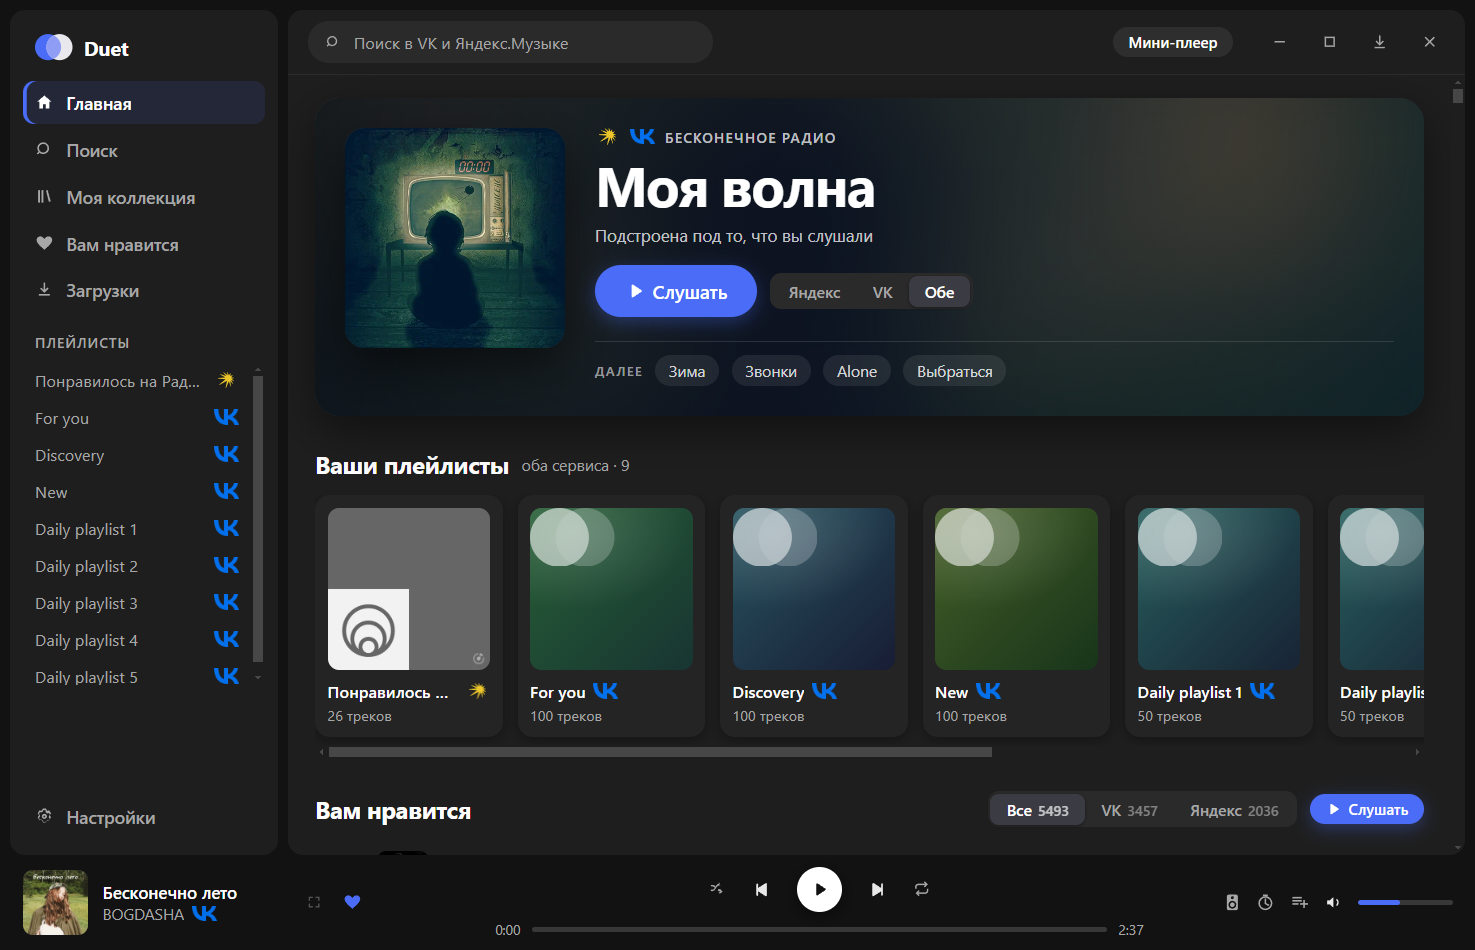
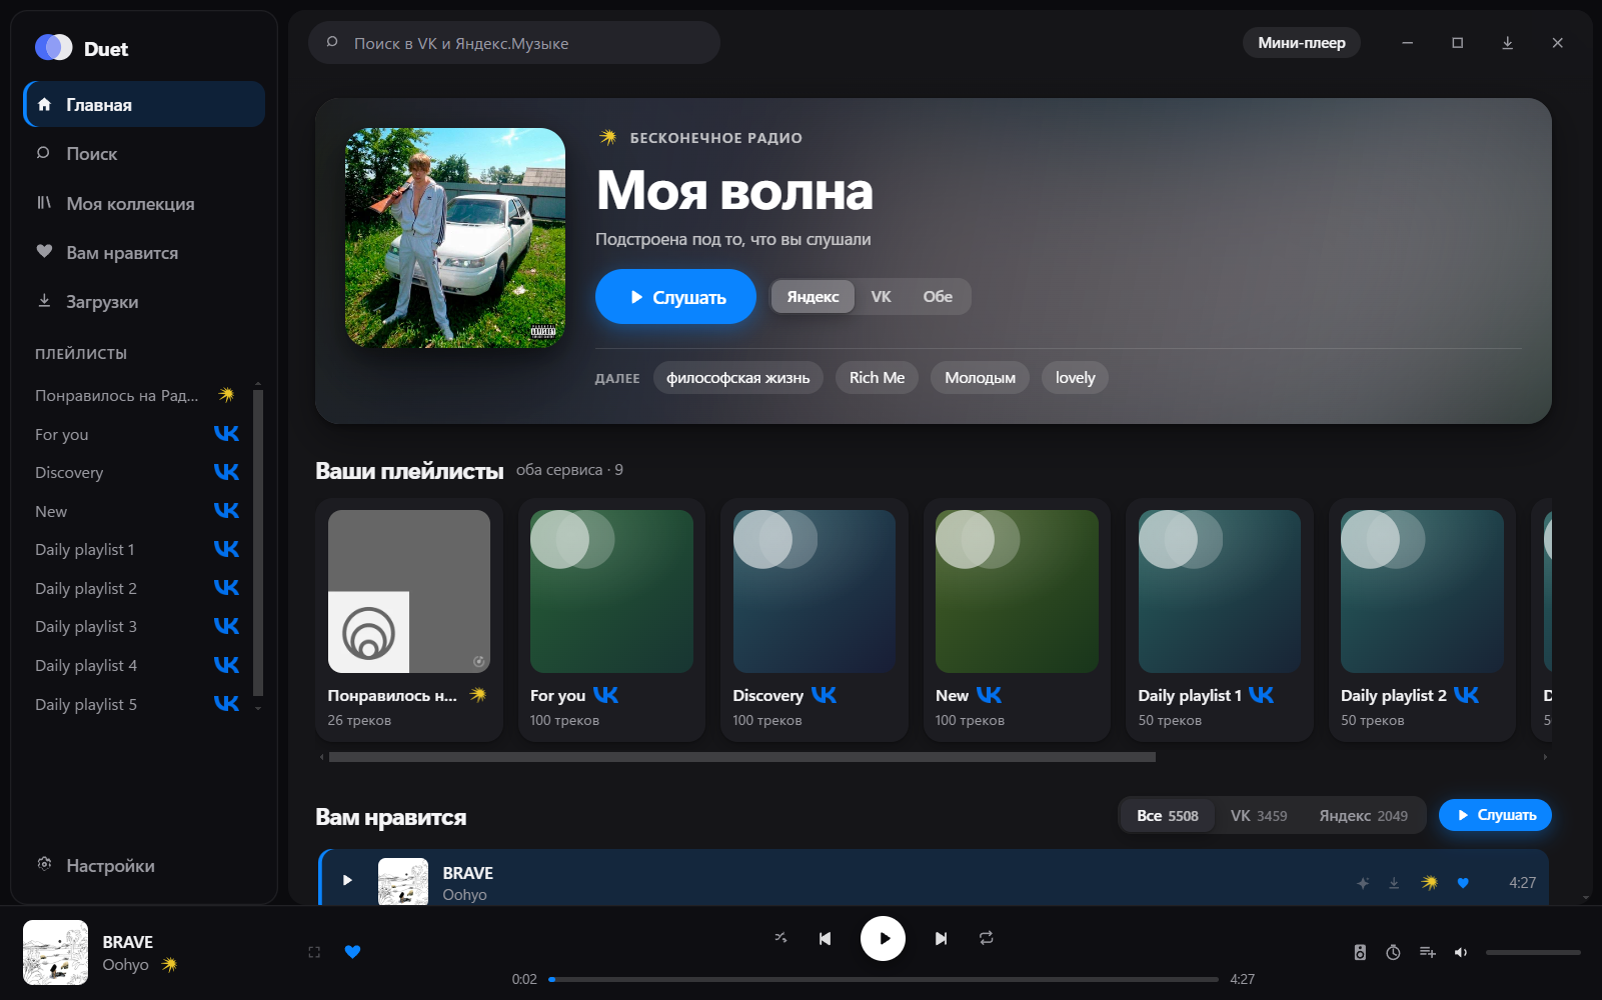
README с новым видом и всеми четырьмя мини-плеерами

diff --git a/README.md b/README.md
@@ -2,7 +2,7 @@
 
 Десктоп-плеер для Windows, который держит **VK Музыку** и **Яндекс.Музыку** в
 одном окне: общий поиск, общая очередь, общая библиотека — и мини-плеер поверх
-всех окон, когда приложение свёрнуто в трей.
+всех окон, когда смотришь в другое приложение.
 
 ![Главный экран](docs/screens/home.png)
 
@@ -16,8 +16,10 @@
   очередь одна на оба сервиса и не сбрасывается при переключении вкладок.
 - **Скачивание** с обоих сервисов, в том числе автоматическое, с лимитом места
   и выбором папки. Скачанное играет без сети.
-- **Мини-плеер поверх окон** — четыре вида из вайрфрейма, с настройкой позиции,
-  прозрачности и раскрытия по наведению.
+- **Мини-плеер поверх окон** — четыре вида, с настройкой позиции, прозрачности,
+  раскрытия по наведению и того, что делает двойной щелчок.
+- **Светлая и тёмная тема** и **настраиваемые анимации** — либо вслед за
+  системой, либо как решите сами.
 - **Похожие треки** по звёздочке у любого трека и **тексты песен** рядом с
   очередью.
 - **Свои плейлисты** — единственное место, где треки VK и Яндекса лежат в одном
@@ -27,11 +29,70 @@
 - Таймер сна (с усыплением компьютера), выбор устройства вывода, глобальные
   горячие клавиши, автозапуск, статус в Discord.
 
+## Мини-плеер
+
+Появляется, когда окно свёрнуто или просто перестало быть активным — это
+настраивается, как и всё остальное. Плита раскрывается по наведению, её можно
+таскать мышью или закрепить на месте, а двойной щелчок по ней либо раскрывает
+её, либо сразу открывает плеер во весь экран.
+
+<table>
+  <tr>
+    <td width="50%" valign="top">
+      <img src="docs/screens/mini-bar.png" alt="Мини-плеер: полоса" width="100%"><br>
+      <b>Полоса</b> — обложка, название, транспорт. Незаметная и широкая.
+    </td>
+    <td width="50%" valign="top">
+      <img src="docs/screens/mini-pill.png" alt="Мини-плеер: пилюля" width="100%"><br>
+      <b>Пилюля</b> — самая маленькая: обложка и три кнопки.
+    </td>
+  </tr>
+  <tr>
+    <td valign="top">
+      <img src="docs/screens/mini-card.png" alt="Мини-плеер: карточка" width="72%"><br>
+      <b>Карточка</b> — крупная обложка, перемотка, громкость, сердечко.
+    </td>
+    <td valign="top">
+      <img src="docs/screens/mini-cover.png" alt="Мини-плеер: обложка" width="72%"><br>
+      <b>Обложка</b> — почти одна картинка, подпись поверх неё.
+    </td>
+  </tr>
+</table>
+
+## Оформление
+
+Тема — светлая, тёмная или вслед за Windows. Меняется сразу и в мини-плеере
+тоже.
+
+![Светлая тема](docs/screens/home-light.png)
+
+Анимации настраиваются по отдельности: общий уровень движения плюс свой выбор
+для появления полноэкранного плеера, живой обложки «Моей волны» и перехода
+между экранами.
+
+![Оформление и анимации](docs/screens/settings.png)
+
+По умолчанию приложение слушается настройки анимаций Windows: если вы их там
+выключили, оно замирает вместе с системой. Выбранный вручную уровень —
+осознанное решение про это приложение, и оно системную настройку перекрывает.
+
+## Поиск
+
+Один запрос — оба сервиса. Лучший результат, треки, альбомы, исполнители и
+плейлисты; вкладки сверху оставляют на экране только один сервис.
+
+![Поиск](docs/screens/search.png)
+
+## Полноэкранный плеер
+
+Очередь и текст песни рядом, фон — размытая обложка.
+
+![Полноэкранный плеер](docs/screens/player.png)
+
 ## Установка
 
 Готовый установщик — в [Releases](../../releases/latest):
-`Duet-<версия>-setup.exe`. Подписи у сборки нет, поэтому SmartScreen при первом
-запуске предупредит — это ожидаемо для неподписанного приложения.
+`Duet-<версия>-setup.exe`. Подписи у сборки нет.
 
 При первом запуске приложение попросит войти в сервисы. Вход происходит **на
 настоящих страницах VK и Яндекса внутри приложения**: логин и пароль оно не
@@ -73,7 +134,7 @@ main (Node)                     renderer
 │   └── vk/      cookies        └── audio   — скрытое окно с <audio>
 ├── player/engine.ts  очередь и транспорт
 ├── downloads/        загрузки и HLS
-├── library/          свои плейлисты
+├── library/          свои плейлисты и кэш каталога
 └── together/         совместное прослушивание
 ```
 
@@ -86,11 +147,28 @@ main (Node)                     renderer
 - **VK отдаёт зашифрованный HLS.** Для воспроизведения его разбирает `hls.js`;
   для скачивания приложение расшифровывает сегменты и демультиплексирует
   транспортный поток само — см. [`src/main/downloads/hls.ts`](src/main/downloads/hls.ts).
+- **Следующий трек готовится заранее.** Аудиоэлементов два: пока играет один,
+  второй уже держит то, что заиграет следующим, — смена трека подменяет их
+  местами. Измерено: 117–174 мс тишины между треками превратились в 2–4 мс.
+- **Библиотека переживает закрытие.** Обход фонотеки — секунды (у VK это
+  восемнадцать страниц), поэтому списки лежат на диске и при следующем запуске
+  показываются сразу, а обход идёт фоном и подменяет их. Запуск до готовой
+  библиотеки: 4,4 с против 0,8 с.
 - **Списки виртуализованы.** В библиотеке бывают тысячи треков; в DOM попадают
-  только видимые строки — иначе экран с пятью тысячами треков отрисовывал бы
-  под сто тысяч узлов и перерисовывал их на каждый тик позиции.
+  только видимые строки. Важна и первая отрисовка: пока список до замера
+  показывал сам себя целиком, открытие «Вам нравится» стоило 2,7 секунды
+  против нынешних 45 миллисекунд.
 - **Очередь передаётся в окна только когда меняется.** Позиция тикает четыре
-  раза в секунду, и слать с ней всю очередь было бы расточительно.
+  раза в секунду, и слать с ней всю очередь было бы расточительно. Мини-плееру
+  не идёт и она: он показывает один трек, его и получает.
+- **Загрузка, которая молчит, — тоже неудача.** Трек может не заиграть без
+  всякой ошибки: элемент вечно ждёт данных. Через восемь секунд тишины плеер
+  пробует иначе — мимо скачанного файла, затем по очереди дальше.
+- **Оформление собрано из токенов, движение — из атрибутов.** Компоненты не
+  знают ни цветов, ни длительностей: и светлая тема, и выбор анимаций меняют
+  значения, а не правила. Отдельно живут поверхности «на обложке» — волна и
+  полноэкранный плеер остаются тёмными в любой теме, потому что лежат на самой
+  картинке.
 - **Волна Яндекса требует обратной связи.** Станция не двигается от одного лишь
   курсора: ей нужно сообщать, что трек начат и дослушан, иначе каждый запуск
   начинается с одного и того же трека.
@@ -102,7 +180,13 @@ npm ci
 npm run dev     # запуск в режиме разработки
 npm run build   # проверка типов и сборка
 npm run dist    # установщик NSIS в release/
+npm run perf    # замер на своей библиотеке (--fresh — с нуля)
 ```
+
+`npm run perf` копирует профиль без кэшей во временную папку и прогоняет по
+нему сценарий: запуск, чтение каталога, двенадцать смен трека, прокрутка
+списка, статус Discord. Печатает таблицу — по ней и видно, стало быстрее или
+только кажется. Рабочий профиль он не трогает.
 
 Нужен Node 18+. Установщик собирается только на Windows: NSIS использует
 средства самой системы. По тегу `v*` то же самое делает
@@ -118,13 +202,3 @@ npm run dist    # установщик NSIS в release/
 
 Загрузки хранятся в виде обычных файлов на вашем диске и предназначены для
 личного прослушивания.
-
-## Экраны
-
-Полноэкранный плеер — очередь и текст песни рядом, фон из обложки:
-
-![Полноэкранный плеер](docs/screens/player.png)
-
-Мини-плеер поверх всех окон:
-
-![Мини-плеер](docs/screens/mini.png)
